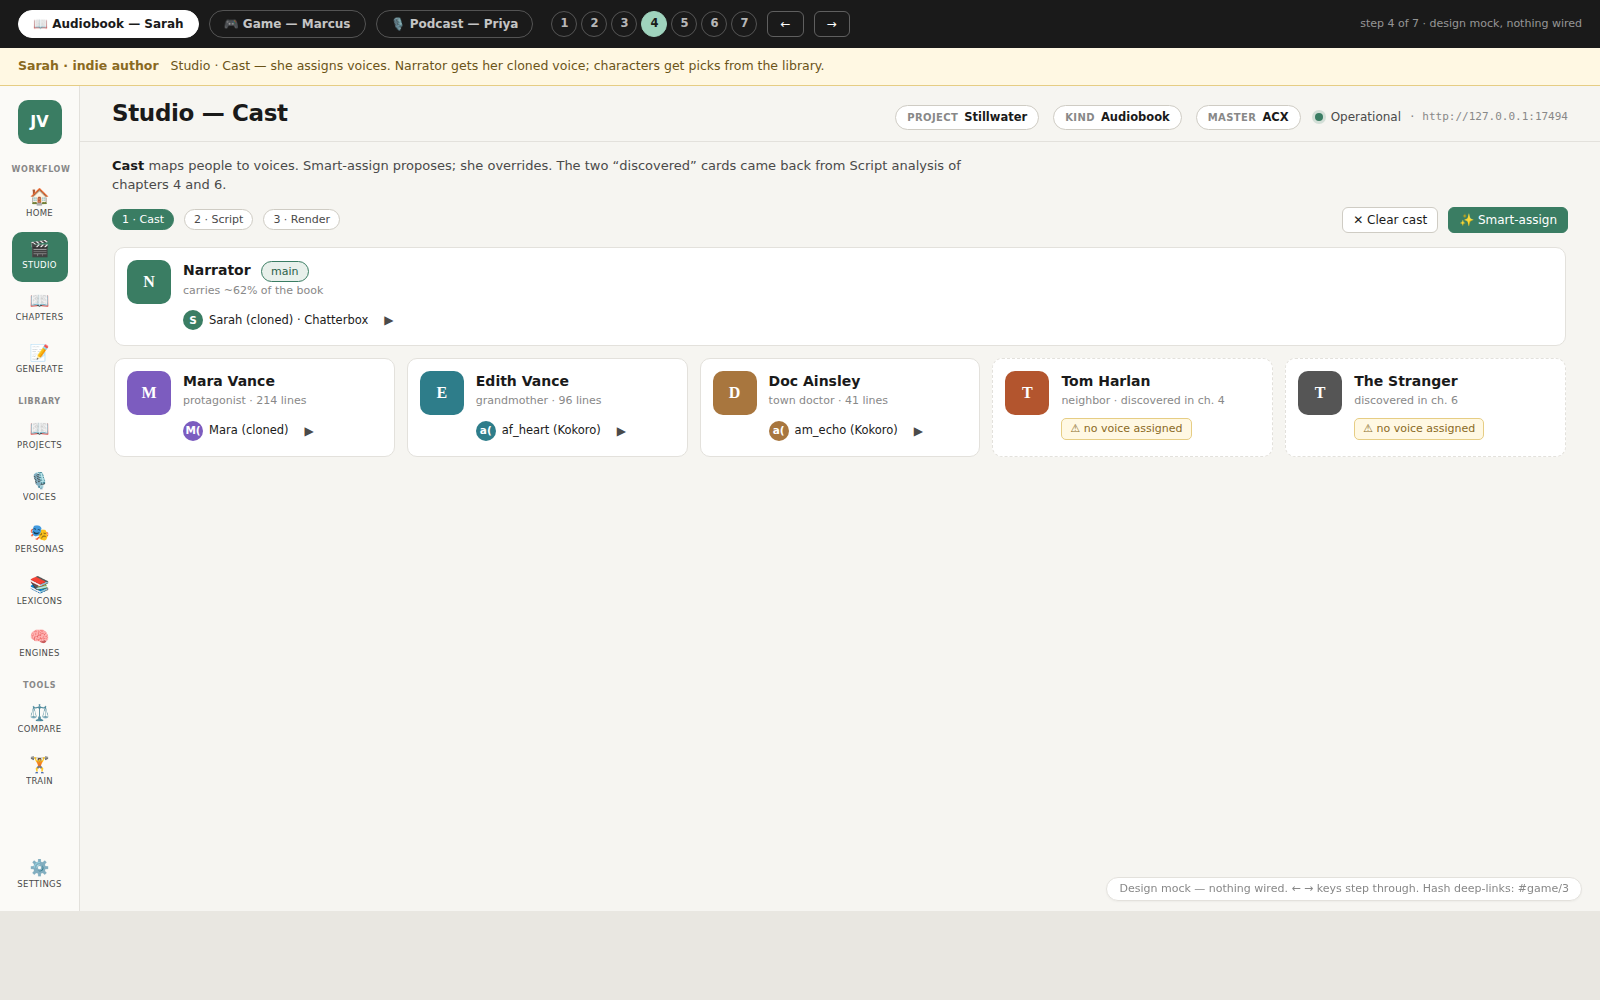
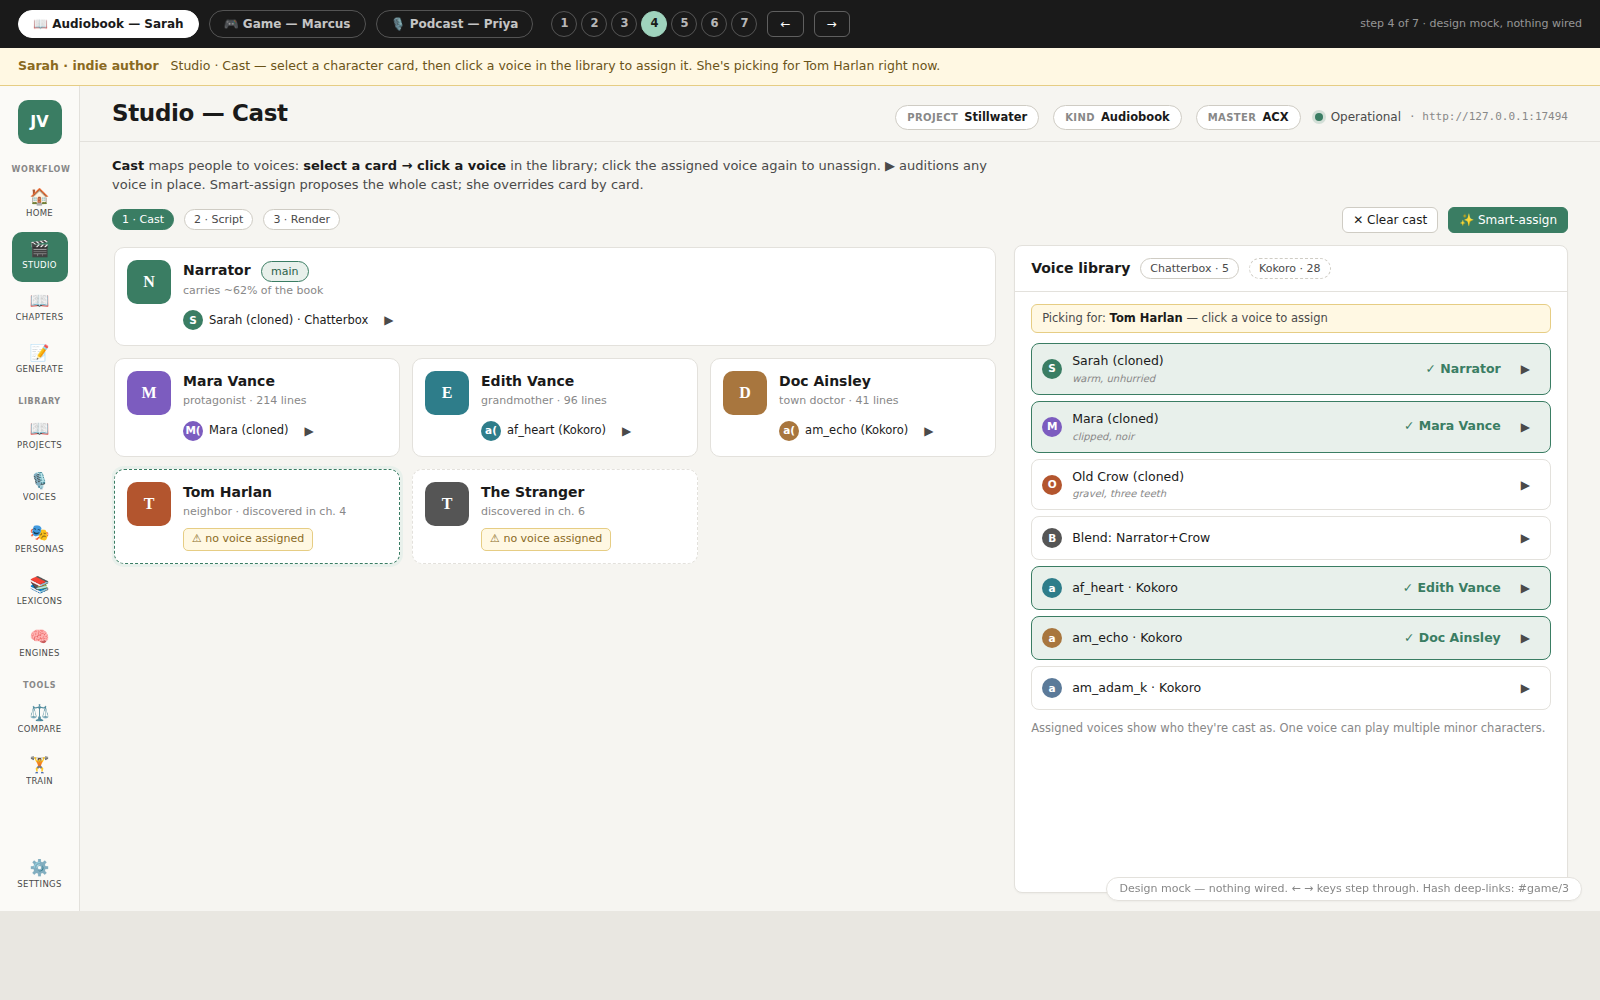
feat(design): journeys preview — show voice-assignment interaction on all Cast screens
Audiobook: v11 two-pane (cast cards + voice library aside, mid-pick state).
Game: voice cell is the picker — per-row dropdown shown open with search.
Podcast: voice on each host card reads as a dropdown.

https://claude.ai/code/session_01RnHLzYNeJn2GgAMKW1BPmR

diff --git a/preview/journeys-preview.html b/preview/journeys-preview.html
@@ -186,6 +186,18 @@ main{display:flex;flex-direction:column;overflow:hidden;background:var(--bg)}
 .seg .mark{flex:none;font-size:11px;color:var(--ink-3)}
 .seg.music{background:var(--surface-3);border-style:dashed;color:var(--ink-3);font-size:12px}
 
+/* voice library aside (v11) */
+.voice-row{display:flex;align-items:center;gap:10px;width:100%;border:1px solid var(--line);background:var(--surface);border-radius:8px;padding:8px 10px;cursor:pointer;text-align:left;font-size:12.5px;color:var(--ink)}
+.voice-row:hover{border-color:var(--line-strong)}
+.voice-row.assigned{border-color:var(--accent);background:var(--accent-soft)}
+.voice-row .nm{flex:1;min-width:0;overflow:hidden;text-overflow:ellipsis;white-space:nowrap}
+.voice-row .nm i{display:block;font-size:10px;color:var(--ink-3);font-style:italic}
+.voice-row .check{color:var(--accent);font-weight:700}
+.picking{font-size:11.5px;color:var(--ink-2);background:var(--warn-bg);border:1px solid var(--warn-line);border-radius:6px;padding:5px 10px;margin-bottom:10px}
+.combo-cell{display:inline-flex;align-items:center;gap:7px;border:1px solid var(--line);background:var(--surface);border-radius:6px;padding:4px 9px;cursor:pointer;font-size:12.5px}
+.combo-cell:hover{border-color:var(--line-strong)}
+.combo-cell .chev{color:var(--ink-3);font-size:9px;margin-left:2px}
+
 /* checklists */
 .ckl{list-style:none;margin:0;padding:0;font-size:12.5px}
 .ckl li{display:flex;gap:8px;align-items:baseline;padding:5px 0;border-bottom:1px dashed var(--line)}
@@ -382,13 +394,23 @@ const stepsAudiobook = [
       </tbody></table>
     </div>`) },
 
-{ nav:"Studio", t:"Studio · Cast — she assigns voices. Narrator gets her cloned voice; characters get picks from the library.",
+{ nav:"Studio", t:"Studio · Cast — select a character card, then click a voice in the library to assign it. She's picking for Tom Harlan right now.",
   html: () => shell("audiobook","Studio","Studio — Cast", projChip("Stillwater","Audiobook","ACX"), `
-    <p class="lede"><strong>Cast</strong> maps people to voices. Smart-assign proposes; she overrides. The two “discovered” cards came back from Script analysis of chapters 4 and 6.</p>
+    <p class="lede"><strong>Cast</strong> maps people to voices: <strong>select a card → click a voice</strong> in the library; click the assigned voice again to unassign. ▶ auditions any voice in place. Smart-assign proposes the whole cast; she overrides card by card.</p>
     <div class="row" style="margin-bottom:12px"><span class="pill solid" style="background:var(--accent);color:#fff;border-color:var(--accent)">1 · Cast</span><span class="pill">2 · Script</span><span class="pill">3 · Render</span><span class="spacer"></span><button class="btn secondary sm">✕ Clear cast</button><button class="btn sm">✨ Smart-assign</button></div>
-    <div class="cast-grid" style="overflow-y:auto;padding:2px">
-      <div class="cast-card narrator"><span class="portrait" style="background:${C.narr}">N</span><div style="min-width:0;flex:1"><strong>Narrator</strong> <span class="pill green" style="margin-left:6px">main</span><div class="cast-role">carries ~62% of the book</div><div class="cast-voice">${glyph("Sa", C.narr)} Sarah (cloned) · Chatterbox <button class="btn ghost sm">▶</button></div></div></div>
-      ${BOOK.cast.map(p=>`<div class="cast-card ${p[3]?'':'unassigned'}"><span class="portrait" style="background:${C[p[2]]}">${p[0][0]}</span><div style="min-width:0;flex:1"><strong>${p[0]}</strong><div class="cast-role">${p[1]}</div>${p[3]?`<div class="cast-voice">${glyph(p[3],C[p[2]])} ${p[3]} <button class="btn ghost sm">▶</button></div>`:`<span class="cast-unassigned">⚠ no voice assigned</span>`}</div></div>`).join("")}
+    <div class="two-col" style="grid-template-columns:minmax(0,1.6fr) minmax(300px,1fr)">
+      <div class="cast-grid" style="overflow-y:auto;padding:2px;align-content:start">
+        <div class="cast-card narrator"><span class="portrait" style="background:${C.narr}">N</span><div style="min-width:0;flex:1"><strong>Narrator</strong> <span class="pill green" style="margin-left:6px">main</span><div class="cast-role">carries ~62% of the book</div><div class="cast-voice">${glyph("Sa", C.narr)} Sarah (cloned) · Chatterbox <button class="btn ghost sm">▶</button></div></div></div>
+        ${BOOK.cast.map(p=>`<div class="cast-card ${p[3]?'':'unassigned'}" ${p[0]==="Tom Harlan"?'style="border-color:var(--accent);box-shadow:0 0 0 3px var(--accent-soft)"':''}><span class="portrait" style="background:${C[p[2]]}">${p[0][0]}</span><div style="min-width:0;flex:1"><strong>${p[0]}</strong><div class="cast-role">${p[1]}</div>${p[3]?`<div class="cast-voice">${glyph(p[3],C[p[2]])} ${p[3]} <button class="btn ghost sm">▶</button></div>`:`<span class="cast-unassigned">⚠ no voice assigned</span>`}</div></div>`).join("")}
+      </div>
+      <div class="card"><div class="card-h"><strong>Voice library</strong><span class="pill">Chatterbox · 5</span><span class="pill ghost">Kokoro · 28</span></div><div class="card-b">
+        <div class="picking">Picking for: <strong>Tom Harlan</strong> — click a voice to assign</div>
+        <div style="display:flex;flex-direction:column;gap:6px">
+          ${[["Sarah (cloned)","warm, unhurried","narr","Narrator"],["Mara (cloned)","clipped, noir","mara","Mara Vance"],["Old Crow (cloned)","gravel, three teeth","tom",null],["Blend: Narrator+Crow","","stranger",null],["af_heart · Kokoro","","edith","Edith Vance"],["am_echo · Kokoro","","doc","Doc Ainsley"],["am_adam_k · Kokoro","","guard",null]].map(v=>`
+          <button class="voice-row ${v[3]?'assigned':''}"><span class="glyph" style="background:${C[v[2]]}">${v[0][0]}</span><span class="nm">${v[0]}${v[1]?`<i>${v[1]}</i>`:''}</span>${v[3]?`<span class="check">✓ ${v[3]}</span>`:''}<span class="btn ghost sm">▶</span></button>`).join("")}
+        </div>
+        <p class="muted" style="font-size:11.5px;margin-top:10px">Assigned voices show who they're cast as. One voice can play multiple minor characters.</p>
+      </div></div>
     </div>`) },
 
 { nav:"Studio", t:"Studio · Script — the LLM works out who speaks each line. It found two speakers who aren't in her cast yet.",
@@ -505,11 +527,17 @@ const stepsGame = [
 
 { nav:"Studio", t:"Studio · Cast at game scale — 9 NPCs in a table, not cards. His CSV already says who speaks, so there's no Script step here.",
   html: () => shell("game","Studio","Studio — Cast", projChip("Emberfall — Act 1","Game","48 kHz"), `
-    <p class="lede">Speakers came straight from the CSV — no LLM attribution needed for games. The Studio strip is two steps here: <strong>Cast → Render</strong>.</p>
+    <p class="lede">Speakers came straight from the CSV — no LLM attribution needed for games. At table scale the <strong>voice cell is the picker</strong>: click it for a searchable dropdown of the library. ▶ test-line auditions the voice on a real line from the script. Smart-assign still fills the whole column at once.</p>
     <div class="row" style="margin-bottom:12px"><span class="pill solid" style="background:var(--accent);color:#fff;border-color:var(--accent)">1 · Cast</span><span class="pill">2 · Render</span><span class="spacer"></span><button class="btn sm">✨ Smart-assign</button></div>
     <div class="card" style="flex:1;min-height:0;overflow-y:auto">
       <table class="vtable"><thead><tr><th>NPC</th><th class="right">Lines</th><th>Voice</th><th>Performance defaults</th><th class="right"></th></tr></thead><tbody>
-        ${GAME.npcs.map(n=>`<tr><td><span style="display:inline-flex;align-items:center;gap:8px">${glyph(n[0],C[n[1]])} <strong>${n[0]}</strong></span></td><td class="right">${n[2]}</td><td>${n[3]?`<span style="display:inline-flex;align-items:center;gap:6px">${glyph(n[3],C[n[1]])} ${n[3]}</span>`:'<span class="cast-unassigned" style="margin:0">⚠ unassigned</span>'}</td><td class="muted" style="font-size:12px">${n[0]==="The Hollow Voice"?"whisper · reverb send":n[0]==="Guard Captain Hale"?"gruff · +5% pace":"—"}</td><td class="right"><button class="btn ghost sm">▶ test line</button></td></tr>`).join("")}
+        ${GAME.npcs.map(n=>`<tr><td><span style="display:inline-flex;align-items:center;gap:8px">${glyph(n[0],C[n[1]])} <strong>${n[0]}</strong></span></td><td class="right">${n[2]}</td><td style="position:relative">${n[3]?`<span class="combo-cell">${glyph(n[3],C[n[1]])} ${n[3]}<span class="chev">▼</span></span>`:n[0]==="The Hollow Voice"?`
+          <span class="combo-cell" style="border-color:var(--accent);box-shadow:0 0 0 3px var(--accent-soft)">choose a voice…<span class="chev">▲</span></span>
+          <span style="position:absolute;top:calc(100% - 4px);left:13px;z-index:30;min-width:250px;background:var(--surface);border:1px solid var(--line);border-radius:8px;box-shadow:var(--shadow-2);padding:5px;display:block">
+            <input class="input" style="height:28px;font-size:12px;margin-bottom:5px" placeholder="Search 33 voices…" value="who" />
+            <button class="voice-row" style="margin-bottom:4px"><span class="glyph" style="background:${C.ghost}">B</span><span class="nm">Blend: Narrator+Crow<i>hollow, doubled</i></span><span class="btn ghost sm">▶</span></button>
+            <button class="voice-row"><span class="glyph" style="background:${C.keeper}">W</span><span class="nm">Whisperer (cloned)<i>breathy, close-mic</i></span><span class="btn ghost sm">▶</span></button>
+          </span>`:'<span class="combo-cell" style="color:var(--warn-ink);border-color:var(--warn-line);background:var(--warn-bg)">⚠ choose a voice…<span class="chev">▼</span></span>'}</td><td class="muted" style="font-size:12px">${n[0]==="The Hollow Voice"?"whisper · reverb send":n[0]==="Guard Captain Hale"?"gruff · +5% pace":"—"}</td><td class="right"><button class="btn ghost sm">▶ test line</button></td></tr>`).join("")}
       </tbody></table>
     </div>`) },
 
@@ -621,7 +649,7 @@ is we stopped trying to preserve the waveform…</div>
     <p class="lede">Speakers came from the script labels — like games, no LLM attribution needed. Studio is <strong>Cast → Render</strong>; assembly happens in Timeline.</p>
     <div class="row" style="margin-bottom:12px"><span class="pill solid" style="background:var(--accent);color:#fff;border-color:var(--accent)">1 · Cast</span><span class="pill">2 · Render</span></div>
     <div class="cast-grid" style="max-width:980px">
-      ${POD.hosts.map(h=>`<div class="cast-card"><span class="portrait" style="background:${C[h[2]]}">${h[0][0]}</span><div style="min-width:0;flex:1"><strong>${h[0]}</strong> <span class="pill ghost" style="margin-left:4px">${h[1]}</span><div class="cast-voice">${glyph(h[3],C[h[2]])} ${h[3]} <button class="btn ghost sm">▶</button></div><div class="cast-role" style="margin-top:4px">${h[0]==="Mave"?"supports [laughs] · [sighs] — Chatterbox tags":"tags: supported"}</div></div></div>`).join("")}
+      ${POD.hosts.map(h=>`<div class="cast-card"><span class="portrait" style="background:${C[h[2]]}">${h[0][0]}</span><div style="min-width:0;flex:1"><strong>${h[0]}</strong> <span class="pill ghost" style="margin-left:4px">${h[1]}</span><div class="cast-voice"><span class="combo-cell">${glyph(h[3],C[h[2]])} ${h[3]}<span class="chev">▼</span></span> <button class="btn ghost sm">▶</button></div><div class="cast-role" style="margin-top:4px">${h[0]==="Mave"?"supports [laughs] · [sighs] — Chatterbox tags":"tags: supported"}</div></div></div>`).join("")}
     </div>
     <div class="banner info" style="margin-top:14px;max-width:980px"><strong>Paralinguistic tags</strong> ride with each segment — engines that support <span class="tagp">[laughs]</span> perform them; others get the tag stripped and a note in the render log.</div>`) },
 
